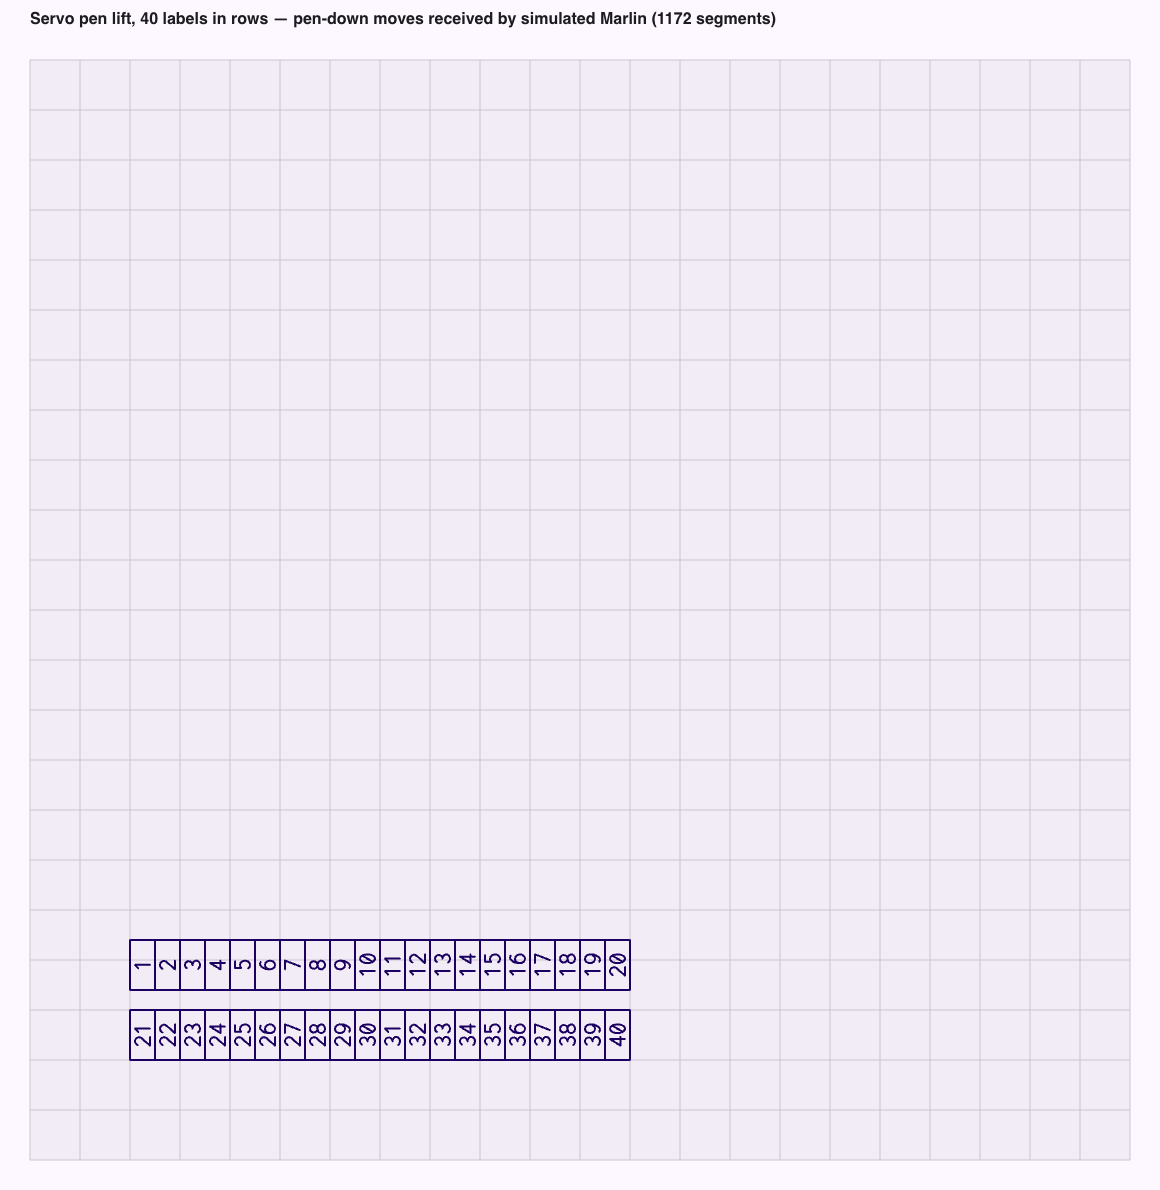
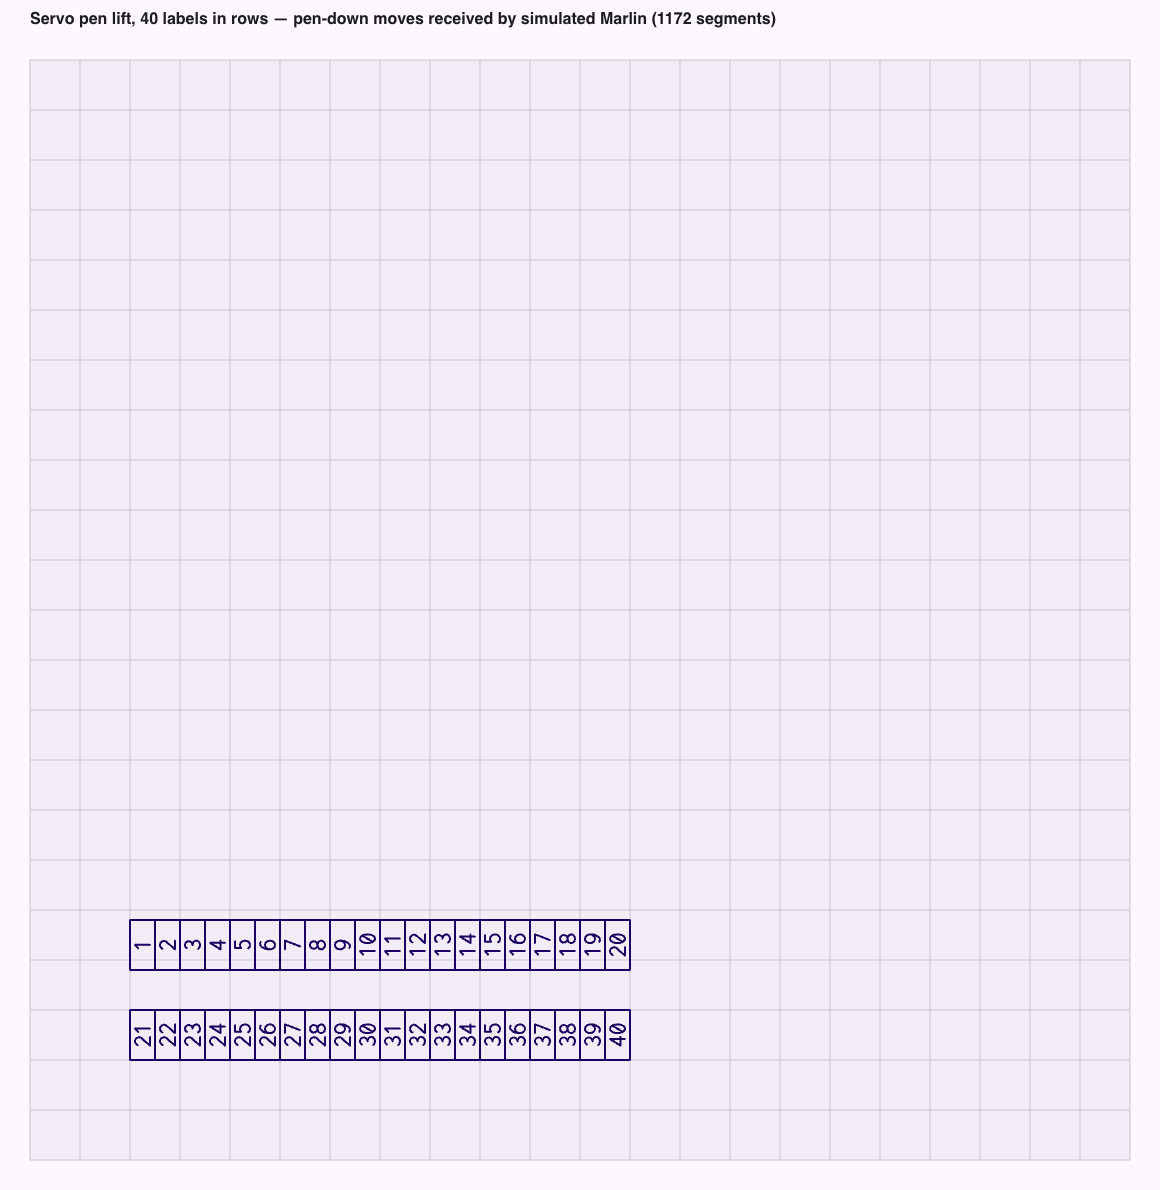
Preview matches physical card structure: ladder frame, rails, slots, hanging strips; defaults 5x8 mm cells, 16 mm pitch

Changed region(s): [[0.1241, 0.7773, 0.5586, 0.8395]]

diff --git a/web/app.js b/web/app.js
@@ -123,6 +123,23 @@
     draw(); drawBlocks();
   }
 
+  // ---------------------------------------------------------------- card geometry
+  // Measured from the physical marker cards (see README): white ladder frame, each strip hangs from the
+  // crossbar above it, a slot below it, and a rail down each side.  All values in mm.
+  const CARD = { rail: 5.5, slot: 4, clear: 0.3 };
+  function cardShape(d, rowGap) {
+    const cells = d.cells || [];
+    if (!cells.length) return null;
+    const bar = Math.max(1, rowGap - CARD.slot);
+    const maxX = Math.max(...cells.map(c => c.x + c.w)), minY = Math.min(...cells.map(c => c.y)), maxY = Math.max(...cells.map(c => c.y + c.h));
+    const rowsY = [...new Set(cells.map(c => c.y))];
+    return {
+      frame: { x: -CARD.rail, y: minY - CARD.slot - bar, w: maxX + 2 * CARD.rail, h: maxY - minY + CARD.slot + 2 * bar },
+      windows: rowsY.map(y => { const h = cells.find(c => c.y === y).h; return { x: -CARD.clear, y: y - CARD.slot, w: maxX + 2 * CARD.clear, h: h + CARD.slot }; }),
+      cells,
+    };
+  }
+
   // ---------------------------------------------------------------- preview
   const cv = $('preview'), cx = cv.getContext('2d');
   let geo = { m: 14, scale: 1 };
@@ -146,13 +163,19 @@
     for (let y = 0; y <= s.bedH; y += 10) { const a = P(0, y), b = P(s.bedW, y); cx.globalAlpha = y % 50 ? .3 : .8; cx.beginPath(); cx.moveTo(a[0], a[1]); cx.lineTo(b[0], b[1]); cx.stroke(); }
     cx.globalAlpha = 1;
 
-    // the physical cards: white cells on a faint footprint
+    // the physical card: ladder frame, slots and white marker cells
     const p0 = P(s.ox, s.oy), p1 = P(s.ox + d.width, s.oy + d.height);
-    cx.fillStyle = css('--primary-container'); cx.globalAlpha = .35;
-    cx.beginPath(); cx.roundRect(p0[0] - 4, p1[1] - 4, p1[0] - p0[0] + 8, p0[1] - p1[1] + 8, 6); cx.fill(); cx.globalAlpha = 1;
-    cx.fillStyle = '#ffffff'; cx.strokeStyle = '#b9bfc8'; cx.lineWidth = 1;
-    for (const c of d.cells || []) { const a = P(s.ox + c.x, s.oy + c.y), b = P(s.ox + c.x + c.w, s.oy + c.y + c.h); cx.fillRect(a[0], b[1], b[0] - a[0], a[1] - b[1]); cx.strokeRect(a[0] + .5, b[1] + .5, b[0] - a[0] - 1, a[1] - b[1] - 1); }
-    if (state.outOfBed) { cx.strokeStyle = css('--error'); cx.lineWidth = 2; cx.setLineDash([6, 4]); cx.strokeRect(p0[0] - 4, p1[1] - 4, p1[0] - p0[0] + 8, p0[1] - p1[1] + 8); cx.setLineDash([]); }
+    const shape = cardShape(d, num('rowGap', 4));
+    if (shape) {
+      const R = (r) => { const a1 = P(s.ox + r.x, s.oy + r.y), b1 = P(s.ox + r.x + r.w, s.oy + r.y + r.h); return [a1[0], b1[1], b1[0] - a1[0], a1[1] - b1[1]]; };
+      cx.fillStyle = '#f1f3f6'; cx.strokeStyle = '#b9bfc8'; cx.lineWidth = 1;
+      let r = R(shape.frame); cx.beginPath(); cx.roundRect(r[0], r[1], r[2], r[3], 3); cx.fill(); cx.stroke();
+      cx.fillStyle = css('--sc-low');
+      for (const w of shape.windows) { r = R(w); cx.fillRect(r[0], r[1], r[2], r[3]); cx.strokeRect(r[0] + .5, r[1] + .5, r[2] - 1, r[3] - 1); }
+      cx.fillStyle = '#ffffff';
+      for (const c of shape.cells) { r = R(c); cx.fillRect(r[0], r[1], r[2], r[3]); cx.strokeRect(r[0] + .5, r[1] + .5, r[2] - 1, r[3] - 1); }
+    }
+    if (state.outOfBed) { cx.strokeStyle = css('--error'); cx.lineWidth = 2; cx.setLineDash([6, 4]); cx.strokeRect(p0[0] - 2, p1[1] - 2, p1[0] - p0[0] + 4, p0[1] - p1[1] + 4); cx.setLineDash([]); }
 
     cx.lineCap = 'round'; cx.lineJoin = 'round';
     const INK = '#0b3d91', DONE = '#00696b';
@@ -258,51 +281,43 @@
   // ---------------------------------------------------------------- marker card visualisation
   const tv = $('tbView'), tx = tv.getContext('2d');
   function drawBlocks() {
-    const o = layoutOpts(), cells = window.DBLayout.parseLabels($('labels').value, o.cellW);
+    const o = layoutOpts(), d = state.design, shape = d && cardShape(d, num('rowGap', 4));
     const dpr = window.devicePixelRatio || 1, W = tv.clientWidth;
     if (!W) return;
-    const pad = 20, avail = W - 2 * pad;
-    // wrap cells into rows (same rule as the plot layout, fitted to the card width)
-    const rows = []; let row = [], x = 0, maxLen = 0;
-    const cap = Math.max(o.rowLen, 1);
-    for (const c of cells) {
-      if (row.length && x + c.w > cap + 1e-6) { rows.push(row); maxLen = Math.max(maxLen, x); row = []; x = 0; }
-      row.push(c); x += c.w;
-    }
-    if (row.length) { rows.push(row); maxLen = Math.max(maxLen, x); }
-    const k = Math.min((avail - 40) / Math.max(maxLen, 1), 14);   // px per mm
-    const cellH = Math.max(o.cellH * k, 44), railH = 14, rowH = cellH + railH * 2 + 14;
-    const H = Math.max(rows.length, 1) * rowH + 12;
+    if (!shape) { tv.style.height = '90px'; tv.width = W * dpr; tv.height = 90 * dpr; tx.setTransform(dpr, 0, 0, dpr, 0, 0); tx.fillStyle = css('--on-surface-variant'); tx.font = '500 14px Roboto Flex, sans-serif'; tx.textAlign = 'center'; tx.fillText('Add some labels to see them here', W / 2, 50); return; }
+    const f = shape.frame, pad = 16, k = Math.min((W - 2 * pad) / f.w, 14);
+    const H = Math.ceil(f.h * k + 2 * pad);
     tv.style.height = H + 'px'; tv.width = W * dpr; tv.height = H * dpr;
     tx.setTransform(dpr, 0, 0, dpr, 0, 0); tx.clearRect(0, 0, W, H);
-    if (!rows.length) { tx.fillStyle = css('--on-surface-variant'); tx.font = '500 14px Roboto Flex, sans-serif'; tx.textAlign = 'center'; tx.fillText('Add some labels to see them here', W / 2, H / 2); return; }
+    const ox = (W - f.w * k) / 2 - f.x * k, oy = pad + (f.y + f.h) * k;     // design (x,y up) -> px
+    const R = r => [ox + r.x * k, oy - (r.y + r.h) * k, r.w * k, r.h * k];
     const dark = document.documentElement.dataset.theme === 'dark';
-    const frame = dark ? '#dfe3e8' : '#f6f7f9', edge = dark ? '#9aa1ab' : '#b9bfc8', cellFill = '#ffffff', ink = '#14171c';
-    rows.forEach((r, ri) => {
-      const total = r.reduce((s, c) => s + c.w, 0) * k, x0 = (W - total) / 2, y0 = 6 + ri * rowH + railH;
-      // white carrier frame (ladder rails above and below the strip)
-      tx.fillStyle = frame; tx.strokeStyle = edge; tx.lineWidth = 1;
-      tx.beginPath(); tx.roundRect(x0 - 16, y0 - railH, total + 32, cellH + railH * 2, 3); tx.fill(); tx.stroke();
-      tx.fillStyle = css('--sc-highest');
-      tx.beginPath(); tx.roundRect(x0 - 4, y0 - 3, total + 8, cellH + 6, 2); tx.fill(); tx.stroke();
-      let x = x0;
-      for (const c of r) {
-        const w = c.w * k;
-        tx.fillStyle = cellFill; tx.strokeStyle = edge; tx.lineWidth = 1;
-        tx.beginPath(); tx.rect(x + .5, y0 + .5, w - 1, cellH - 1); tx.fill(); tx.stroke();
-        tx.save(); tx.beginPath(); tx.rect(x + 1, y0 + 1, w - 2, cellH - 2); tx.clip();
-        tx.translate(x + w / 2, y0 + cellH / 2); if (o.rot) tx.rotate(-o.rot * Math.PI / 180);
-        const L = (o.rot ? cellH : w) - 6, T = (o.rot ? w : cellH) - 6, n = c.lines.length;
-        let fs = Math.min(T / (n * 1.2), o.textH * k * 1.3, 40);
-        tx.fillStyle = ink; tx.textAlign = 'center'; tx.textBaseline = 'middle';
-        const font = z => `500 ${z}px Arial, Helvetica, sans-serif`;
-        tx.font = font(fs);
-        const widest = Math.max(0, ...c.lines.map(t => tx.measureText(t).width));
-        if (widest > L) { fs *= L / widest; tx.font = font(fs); }
-        c.lines.forEach((t, i) => tx.fillText(t, 0, (i - (n - 1) / 2) * fs * 1.2));
-        tx.restore();
-        x += w;
-      }
+    const frame = dark ? '#e4e7eb' : '#f6f7f9', edge = dark ? '#9aa1ab' : '#b9bfc8';
+    tx.lineWidth = 1; tx.strokeStyle = edge; tx.fillStyle = frame;
+    let r = R(f); tx.beginPath(); tx.roundRect(r[0], r[1], r[2], r[3], 4); tx.fill(); tx.stroke();
+    // register holes in the rails
+    tx.fillStyle = dark ? '#aeb4bd' : '#cfd4db';
+    for (const w of shape.windows) { const cy = oy - (w.y + w.h / 2) * k; for (const hx of [ox - CARD.rail / 2 * k, ox + (f.x + f.w - CARD.rail / 2 + 0) * k + 0]) { tx.beginPath(); tx.arc(hx === ox - CARD.rail / 2 * k ? hx : ox + (f.x + f.w - CARD.rail / 2) * k, cy, Math.max(1.5, .6 * k), 0, 7); tx.fill(); } }
+    tx.fillStyle = css('--sc-highest');
+    for (const w of shape.windows) { r = R(w); tx.fillRect(r[0], r[1], r[2], r[3]); tx.strokeRect(r[0] + .5, r[1] + .5, r[2] - 1, r[3] - 1); }
+    for (const c of shape.cells) {
+      r = R(c); tx.fillStyle = '#ffffff'; tx.fillRect(r[0], r[1], r[2], r[3]); tx.strokeStyle = edge; tx.strokeRect(r[0] + .5, r[1] + .5, r[2] - 1, r[3] - 1);
+    }
+    const lab = window.DBLayout.parseLabels($('labels').value, o.cellW);
+    shape.cells.forEach((c, i) => {
+      const L0 = lab[i]; if (!L0) return;
+      r = R(c);
+      tx.save(); tx.beginPath(); tx.rect(r[0] + 1, r[1] + 1, r[2] - 2, r[3] - 2); tx.clip();
+      tx.translate(r[0] + r[2] / 2, r[1] + r[3] / 2); if (o.rot) tx.rotate(-o.rot * Math.PI / 180);
+      const Lx = (o.rot ? r[3] : r[2]) - 6, T = (o.rot ? r[2] : r[3]) - 6, n = L0.lines.length;
+      let fs = Math.min(T / (n * 1.2), o.textH * k * 1.3, 40);
+      tx.fillStyle = '#14171c'; tx.textAlign = 'center'; tx.textBaseline = 'middle';
+      const font = z => `500 ${z}px Arial, Helvetica, sans-serif`;
+      tx.font = font(fs);
+      const widest = Math.max(0, ...L0.lines.map(t => tx.measureText(t).width));
+      if (widest > Lx) { fs *= Lx / widest; tx.font = font(fs); }
+      L0.lines.forEach((t, j) => tx.fillText(t, 0, (j - (n - 1) / 2) * fs * 1.2));
+      tx.restore();
     });
   }
 

diff --git a/web/index.html b/web/index.html
@@ -72,11 +72,11 @@
       <h2>Layout</h2>
       <div class="fields">
         <label class="field"><span>Cell width <small>mm</small></span><input id="cellW" type="number" step="0.1" value="5"></label>
-        <label class="field"><span>Cell height <small>mm</small></span><input id="cellH" type="number" step="0.1" value="10"></label>
+        <label class="field"><span>Cell height <small>mm</small></span><input id="cellH" type="number" step="0.1" value="8"></label>
         <label class="field"><span>Text height <small>mm</small></span><input id="textH" type="number" step="0.1" value="3.5"></label>
         <label class="field"><span>Padding <small>mm</small></span><input id="pad" type="number" step="0.1" value="0.8"></label>
         <label class="field"><span>Row length <small>mm</small></span><input id="rowLen" type="number" step="1" value="50"></label>
-        <label class="field"><span>Row gap <small>mm</small></span><input id="rowGap" type="number" step="0.5" value="4"></label>
+        <label class="field"><span>Row gap <small>mm</small></span><input id="rowGap" type="number" step="0.5" value="8"></label>
       </div>
       <div class="label-s">Text direction</div>
       <div class="seg" id="rotSeg" role="radiogroup">

diff --git a/tests/e2e.js b/tests/e2e.js
@@ -23,7 +23,7 @@ const sleep = ms => new Promise(r => setTimeout(r, ms));
 const DATASETS = [
   { id: 'numbered', title: 'Numbered marker strips, 5 mm cells',
     labels: Array.from({ length: 24 }, (_, i) => String(i + 1)).join('\n'),
-    num: { cellW: 5, cellH: 10, textH: 3.5, rowLen: 50 }, seg: { rotSeg: '0', modeSeg: 'z' } },
+    num: { cellW: 5, cellH: 8, textH: 3.5, rowLen: 50, rowGap: 8 }, seg: { rotSeg: '0', modeSeg: 'z' } },
   { id: 'symbols', title: 'Mixed symbols and two-line labels',
     labels: 'L1|24V\nL2|24V\n0V\nPE@8\n10kΩ\n4.7µF\n±5%\n85°C\nA-B/C\n(IN)+\n#7 &8', num: { cellW: 9, cellH: 14, textH: 3.5 }, seg: { rotSeg: '90', modeSeg: 'z' } },
   { id: 'horizontal', title: 'Horizontal text in wide cells',

diff --git a/docs/TEST_RESULTS.md b/docs/TEST_RESULTS.md
@@ -16,14 +16,14 @@ Generated by `tests/e2e.js` (headless Chrome → real UI → simulated Marlin, `
 
 | | Check | Detail |
 |---|---|---|
-| ✅ | layout produced every label | (24/24 labels, 80 strokes, 729 mm of ink) |
-| ✅ | design fits on the bed | (50×38 mm at 20,20) |
+| ✅ | layout produced every label | (24/24 labels, 80 strokes, 675 mm of ink) |
+| ✅ | design fits on the bed | (50×40 mm at 20,20) |
 | ✅ | connected and detected Marlin | ("Connected · Marlin 2.1.2.5") |
-| ✅ | every G-code line was acknowledged | (772/772 commands in 0.1s) |
+| ✅ | every G-code line was acknowledged | (773/773 commands in 0.1s) |
 | ✅ | never overflowed Marlin's 128-byte RX buffer | (peak 74 bytes, 0 overflows) |
-| ✅ | ink length matches design | (729.3 mm drawn vs 729.2 mm designed) |
+| ✅ | ink length matches design | (675.3 mm drawn vs 675.2 mm designed) |
 | ✅ | one pen-down per stroke | (80/80) |
-| ✅ | drawn bounding box lands at the origin offset | (X 20.0–70.0, Y 20.0–58.0 mm; max error 0.000 mm) |
+| ✅ | drawn bounding box lands at the origin offset | (X 20.0–70.0, Y 20.0–60.0 mm; max error 0.000 mm) |
 | ✅ | pen lifted and parked at the end | (pos 0,220, pen up) |
 | ✅ | no JS errors in the page |  |
 
@@ -34,13 +34,13 @@ Generated by `tests/e2e.js` (headless Chrome → real UI → simulated Marlin, `
 | | Check | Detail |
 |---|---|---|
 | ✅ | layout produced every label | (11/11 labels, 86 strokes, 709 mm of ink) |
-| ✅ | design fits on the bed | (45×50 mm at 20,20) |
+| ✅ | design fits on the bed | (45×58 mm at 20,20) |
 | ✅ | connected and detected Marlin | ("Connected · Marlin 2.1.2.5") |
 | ✅ | every G-code line was acknowledged | (784/784 commands in 0.1s) |
 | ✅ | never overflowed Marlin's 128-byte RX buffer | (peak 74 bytes, 0 overflows) |
 | ✅ | ink length matches design | (709.3 mm drawn vs 709.4 mm designed) |
 | ✅ | one pen-down per stroke | (86/86) |
-| ✅ | drawn bounding box lands at the origin offset | (X 20.0–65.0, Y 20.0–70.0 mm; max error 0.000 mm) |
+| ✅ | drawn bounding box lands at the origin offset | (X 20.0–65.0, Y 20.0–78.0 mm; max error 0.000 mm) |
 | ✅ | pen lifted and parked at the end | (pos 0,220, pen up) |
 | ✅ | no JS errors in the page |  |
 
@@ -51,13 +51,13 @@ Generated by `tests/e2e.js` (headless Chrome → real UI → simulated Marlin, `
 | | Check | Detail |
 |---|---|---|
 | ✅ | layout produced every label | (7/7 labels, 52 strokes, 554 mm of ink) |
-| ✅ | design fits on the bed | (96×22 mm at 20,20) |
+| ✅ | design fits on the bed | (96×26 mm at 20,20) |
 | ✅ | connected and detected Marlin | ("Connected · Marlin 2.1.2.5") |
 | ✅ | every G-code line was acknowledged | (457/457 commands in 0.1s) |
 | ✅ | never overflowed Marlin's 128-byte RX buffer | (peak 78 bytes, 0 overflows) |
 | ✅ | ink length matches design | (553.8 mm drawn vs 553.8 mm designed) |
 | ✅ | one pen-down per stroke | (52/52) |
-| ✅ | drawn bounding box lands at the origin offset | (X 20.0–116.0, Y 20.0–42.0 mm; max error 0.000 mm) |
+| ✅ | drawn bounding box lands at the origin offset | (X 20.0–116.0, Y 20.0–46.0 mm; max error 0.000 mm) |
 | ✅ | pen lifted and parked at the end | (pos 0,220, pen up) |
 | ✅ | no JS errors in the page |  |
 
@@ -68,13 +68,13 @@ Generated by `tests/e2e.js` (headless Chrome → real UI → simulated Marlin, `
 | | Check | Detail |
 |---|---|---|
 | ✅ | layout produced every label | (40/40 labels, 133 strokes, 1294 mm of ink) |
-| ✅ | design fits on the bed | (100×24 mm at 20,20) |
+| ✅ | design fits on the bed | (100×28 mm at 20,20) |
 | ✅ | connected and detected Marlin | ("Connected · Marlin 2.1.2.5") |
-| ✅ | every G-code line was acknowledged | (2110/2110 commands in 0.2s) |
+| ✅ | every G-code line was acknowledged | (2110/2110 commands in 0.3s) |
 | ✅ | never overflowed Marlin's 128-byte RX buffer | (peak 78 bytes, 0 overflows) |
 | ✅ | ink length matches design | (1293.7 mm drawn vs 1293.6 mm designed) |
 | ✅ | one pen-down per stroke | (133/133) |
-| ✅ | drawn bounding box lands at the origin offset | (X 20.0–120.0, Y 20.0–44.0 mm; max error 0.000 mm) |
+| ✅ | drawn bounding box lands at the origin offset | (X 20.0–120.0, Y 20.0–48.0 mm; max error 0.000 mm) |
 | ✅ | pen lifted and parked at the end | (pos 0,220, pen up) |
 | ✅ | no JS errors in the page |  |
 
@@ -85,13 +85,13 @@ Generated by `tests/e2e.js` (headless Chrome → real UI → simulated Marlin, `
 | | Check | Detail |
 |---|---|---|
 | ✅ | layout produced every label | (1/1 labels, 2 strokes, 9 mm of ink) |
-| ✅ | design fits on the bed | (5×10 mm at 20,20) |
+| ✅ | design fits on the bed | (5×8 mm at 20,20) |
 | ✅ | connected and detected Marlin | ("Connected · Marlin 2.1.2.5") |
 | ✅ | every G-code line was acknowledged | (14/14 commands in 0.0s) |
 | ✅ | never overflowed Marlin's 128-byte RX buffer | (peak 68 bytes, 0 overflows) |
 | ✅ | ink length matches design | (8.5 mm drawn vs 8.5 mm designed) |
 | ✅ | one pen-down per stroke | (2/2) |
-| ✅ | drawn bounding box lands at the origin offset | (X 20.8–24.2, Y 23.9–26.1 mm; max error 0.003 mm) |
+| ✅ | drawn bounding box lands at the origin offset | (X 20.8–24.2, Y 22.9–25.1 mm; max error 0.003 mm) |
 | ✅ | pen lifted and parked at the end | (pos 0,220, pen up) |
 | ✅ | no JS errors in the page |  |
 
@@ -99,9 +99,9 @@ Generated by `tests/e2e.js` (headless Chrome → real UI → simulated Marlin, `
 
 | | Check | Detail |
 |---|---|---|
-| ✅ | no commands run while paused | (283 → 283) |
+| ✅ | no commands run while paused | (284 → 284) |
 | ✅ | UI reports Done only after the last command executed |  |
-| ✅ | job completes after resume with correct ink | (729.3 vs 729.2 mm) |
+| ✅ | job completes after resume with correct ink | (675.3 vs 675.2 mm) |
 
 ## Stop
 

diff --git a/README.md b/README.md
@@ -59,6 +59,6 @@ On 4.2.x boards, if compile complains about a missing sensor with `TEMP_SENSOR_0
 
 ## Label syntax
 One label per line · `L1|24V` = two text lines · `PE@8` = 8 mm wide cell · **Add numbered** generates `X1:1…`.
-Font is a built-in single-stroke font (A–Z, 0–9, `- + = . , : / ( ) % & # @ Ω µ ° ±`…). Defaults match 5 mm marker strips (10 per row, horizontal text); switch to Up/Down for narrower cells. The bed preview draws the white cards with the pen strokes on them, the **Marker cards** panel shows the finished strips, and **Preview moves** animates every pen-down stroke and pen-up travel (dashed) without touching the printer.
+Font is a built-in single-stroke font (A–Z, 0–9, `- + = . , : / ( ) % & # @ Ω µ ° ±`…). Defaults match the physical marker cards: 5 × 8 mm cells, 10 per strip, 16 mm strip pitch, horizontal text; the preview draws the ladder frame (5.5 mm rails, slots, crossbars) estimated from photos — adjust `CARD` in `web/app.js` if your cards differ; switch to Up/Down for narrower cells. The bed preview draws the white cards with the pen strokes on them, the **Marker cards** panel shows the finished strips, and **Preview moves** animates every pen-down stroke and pen-up travel (dashed) without touching the printer.
 
 Stop sends `M410` and lifts the pen. Settings persist in the browser. **Not tested against a real printer** — try a dry run with the pen up first.
